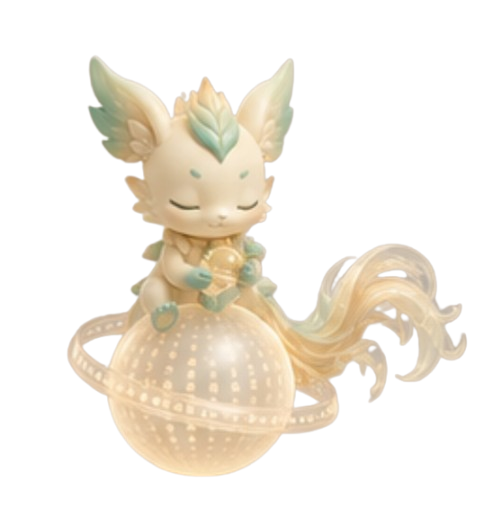
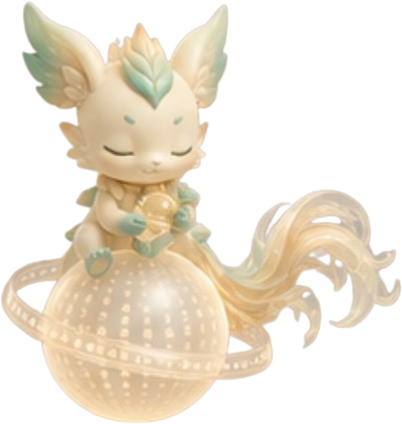
fix(mascot): trim the two poses that shipped with transparent margin
§6's companion looked too small and sat too low. The cause was not the layout:
`reading-on-the-orb.png` was never trimmed. It filled 82.6% x 90.8% of its own
499x500 frame, with 26/61/30/16 px of transparent margin, so in a 160px box the
creature drew 132 x 145 CSS px, sat 5.6 px LEFT of the box's centre because the
right margin was more than twice the left, and its 16px bottom margin floated
the orb 5.1 CSS px above the rail the column is bottom-aligned to.

That last one had already been filed as a separate §6 minor ("the orb floats
above the rail"). It is the same defect.

`hugging-an-orb.png` (§8) is the same, at 83.1% x 82.2% with 66/16/54/38.

THIS IS THE LIBRARY'S OWN CONVENTION, not a change of taste. The other three
poses a component references are `extract.js`'s output and a cutter emits a
tight box: greeting 100.0% x 99.3%, noting 100.0% x 99.0%, resting 100.0% x
99.2%. Only the two hand-cut, hand-pasted ones missed it. The guard's threshold
is 0.98 precisely so the extractor's 2-3px of bottom slack passes and its
byte-comparison test keeps working.

  reading-on-the-orb.png  499x500 -> 412x454  (offset 26,30)
  hugging-an-orb.png      484x516 -> 402x424  (offset 66,54)

Lossless for the creature, verified rather than asserted: decoding each
pre-trim file from HEAD and comparing the kept region pixel by pixel gives 0 of
748192 and 0 of 681792 channel values differing, and 0 opaque pixels dropped.
[…]

diff --git a/scripts/mascot/poses.test.ts b/scripts/mascot/poses.test.ts
@@ -1,6 +1,7 @@
 import { describe, expect, it } from "vitest";
 import { execFileSync } from "node:child_process";
 import { existsSync, readFileSync, readdirSync } from "node:fs";
+import { decode } from "./png.js";
 import { join } from "node:path";
 
 /**
@@ -24,6 +25,28 @@ import { join } from "node:path";
 
 const ROOT = join(__dirname, "..", "..");
 const POSES_DIR = join(ROOT, "public", "mascot", "poses");
+
+/** The bounding box of a PNG's non-transparent pixels. */
+function opaqueBox(path: string) {
+  const { w, h, ch, data } = decode(path);
+  let x0 = w;
+  let x1 = -1;
+  let y0 = h;
+  let y1 = -1;
+  for (let y = 0; y < h; y++) {
+    for (let x = 0; x < w; x++) {
+      // 8, not 0: a hand-cut edge feathers, and a pixel at alpha 3 is not
+      // margin a viewer can see.
+      if (ch === 4 && (data[(y * w + x) * ch + 3] ?? 0) <= 8) continue;
+      if (x < x0) x0 = x;
+      if (x > x1) x1 = x;
+      if (y < y0) y0 = y;
+      if (y > y1) y1 = y;
+    }
+  }
+  return { w, h, boxW: x1 - x0 + 1, boxH: y1 - y0 + 1 };
+}
+
 
 type Pose = {
   out: string;
@@ -149,6 +172,60 @@ describe("mascot pose manifest", () => {
         sources.some((src) => src.includes(pose.out)),
         `${pose.out} is recorded as placed but no component references it in code`,
       ).toBe(true);
+    }
+  });
+
+  it("draws every pose that ships with no transparent margin around it", () => {
+    // A placement sizes the FILE, not the creature — `sizes="160px"` paints the
+    // image box — so transparent margin is drawn size the artwork never gets,
+    // and asymmetric margin also pushes it off its own box's centre. §6 shipped
+    // `reading-on-the-orb.png` at 82.6% x 90.8% of its frame: in a 160px box
+    // the creature drew 132 x 145 CSS px, sat 5.6px left of centre, and its
+    // 16px bottom margin floated the orb 5.1 CSS px ABOVE the rail that
+    // `capability-chain.tsx` bottom-aligns it to.
+    //
+    // Scoped to what SHIPS, read from the components rather than from the
+    // manifest's `slot`. Both classes are scanned on purpose: three of the five
+    // poses a component references are `extract.js`'s output, and THEY are what
+    // proves the convention — a cutter emits a tight box, so all three measure
+    // 100% fill. The two that did not were hand-cut and pasted in.
+    const stripComments = (src: string) =>
+      src.replace(/\/\*[\s\S]*?\*\//g, "").replace(/^\s*\/\/.*$/gm, "");
+    const dir = join(process.cwd(), "components", "marketing");
+    const sources = readdirSync(dir)
+      .filter((f) => f.endsWith(".tsx") && !f.endsWith(".test.tsx"))
+      .map((f) => stripComments(readFileSync(join(dir, f), "utf8")));
+    expect(sources.length, "no marketing components found to scan").toBeGreaterThan(0);
+
+    const shipped = [...manifest.poses, ...manifest.supplied].filter((pose) =>
+      sources.some((src) => src.includes(pose.out)),
+    );
+    // L-004: without this, a scan that matched nothing would make the loop
+    // below vacuously green — and this guard was written over existing code,
+    // which is exactly when that happens unnoticed.
+    expect(shipped.map((pose) => pose.out).sort()).toEqual([
+      "greeting.png",
+      "hugging-an-orb.png",
+      "noting.png",
+      "reading-on-the-orb.png",
+      "resting.png",
+    ]);
+
+    for (const pose of shipped) {
+      const { w, h, boxW, boxH } = opaqueBox(join(POSES_DIR, pose.out));
+      expect(boxW / w, `${pose.out} horizontal fill`).toBeGreaterThan(0.98);
+      expect(boxH / h, `${pose.out} vertical fill`).toBeGreaterThan(0.98);
+      // A supplied entry records both dimensions, and they must describe the
+      // file on disk — otherwise a trim leaves two records disagreeing
+      // (CLAUDE.md 6, one fact one home). An extracted entry records only the
+      // cut `width`; its height comes from the sheet, and `extract.js --check`
+      // already byte-compares those files.
+      if ("height" in pose) {
+        expect({ width: w, height: h }, `${pose.out} manifest dimensions`).toEqual({
+          width: pose.width,
+          height: pose.height,
+        });
+      }
     }
   });
 

diff --git a/scripts/mascot/trim.js b/scripts/mascot/trim.js
@@ -1,0 +1,81 @@
+// Trims a pose to its opaque bounding box.
+//
+// WHY THIS EXISTS. A placement sizes the FILE, not the creature: §6 renders
+// `reading-on-the-orb.png` with `sizes="160px"`, so transparent margin inside
+// the file is drawn size the artwork never gets. That pose shipped filling
+// 82.6% x 90.8% of its own frame — the creature drew 132 x 145 CSS px in a
+// 160px box, sat 5.6 px left of the box's centre because the right margin was
+// 61px against the left's 26, and its 16px bottom margin floated the orb 5.1
+// CSS px above the rail `capability-chain.tsx` bottom-aligns it to.
+//
+// `extract.js` already emits tight cuts, which is why all three of its outputs
+// that ship measure 100% fill. This is the same guarantee for the poses the
+// owner hand-cut and pasted in.
+//
+// LOSSLESS FOR THE CREATURE: only margin at or below ALPHA_FLOOR is removed, so
+// every pixel the artwork draws survives byte-identical. `--check` re-derives
+// the box and reports without writing, the contract `extract.js --check` has.
+//
+// Usage:
+//   node scripts/mascot/trim.js [--check] <path> [<path> ...]
+const { decode, encode } = require("./png.js");
+const fs = require("fs");
+const path = require("path");
+
+const ROOT = path.join(__dirname, "..", "..");
+// 8, not 0: a hand-cut edge feathers, and a pixel at alpha 3 is not margin a
+// viewer can see. Kept identical to the guard in `poses.test.ts`.
+const ALPHA_FLOOR = 8;
+
+function opaqueBox({ w, h, ch, data }) {
+  let x0 = w;
+  let x1 = -1;
+  let y0 = h;
+  let y1 = -1;
+  for (let y = 0; y < h; y++) {
+    for (let x = 0; x < w; x++) {
+      if (ch === 4 && data[(y * w + x) * ch + 3] <= ALPHA_FLOOR) continue;
+      if (x < x0) x0 = x;
+      if (x > x1) x1 = x;
+      if (y < y0) y0 = y;
+      if (y > y1) y1 = y;
+    }
+  }
+  if (x1 < 0) throw new Error("image is fully transparent");
+  return { x0, y0, w: x1 - x0 + 1, h: y1 - y0 + 1 };
+}
+
+function trim(rel, { write }) {
+  const abs = path.isAbsolute(rel) ? rel : path.join(ROOT, rel);
+  const img = decode(abs);
+  const box = opaqueBox(img);
+  const already = box.x0 === 0 && box.y0 === 0 && box.w === img.w && box.h === img.h;
+
+  console.log(
+    `${rel}: ${img.w}x${img.h} -> ${box.w}x${box.h} (offset ${box.x0},${box.y0})` +
+      (already ? "  already trimmed" : write ? "  WRITTEN" : "  would trim"),
+  );
+  if (already || !write) return box;
+
+  // `encode` writes colortype 6 unconditionally and calls `data.copy`, so it
+  // wants an RGBA **Buffer** — matching `decode`, which returns one. A pose
+  // without an alpha channel has no margin to trim and never reaches here.
+  if (img.ch !== 4) throw new Error(`${rel}: expected RGBA, got ${img.ch} channels`);
+
+  const rowBytes = box.w * 4;
+  const out = Buffer.alloc(box.h * rowBytes);
+  for (let y = 0; y < box.h; y++) {
+    const src = ((y + box.y0) * img.w + box.x0) * 4;
+    img.data.copy(out, y * rowBytes, src, src + rowBytes);
+  }
+  fs.writeFileSync(abs, encode(box.w, box.h, out));
+  return box;
+}
+
+const write = !process.argv.includes("--check");
+const files = process.argv.slice(2).filter((arg) => !arg.startsWith("--"));
+if (files.length === 0) {
+  console.error("usage: node scripts/mascot/trim.js [--check] <path> [<path> ...]");
+  process.exit(1);
+}
+for (const file of files) trim(file, { write });

diff --git a/tests/e2e/landing-page.spec.ts b/tests/e2e/landing-page.spec.ts
@@ -166,4 +166,42 @@ test.describe("landing page", () => {
     expect(headerBottom).toBeGreaterThan(0);
     expect(headingTop).toBeGreaterThan(headerBottom);
   });
+  test("gives §3's five step cards one width", async ({ page }) => {
+    // Geometry, so it belongs here and not in the jsdom suite, which loads no
+    // CSS. The defect: every `li` carried the flex basis and shared it with a
+    // StepArrow — except the fifth, which renders no arrow and kept the
+    // arrow's 16px for its card. Measured 146.51 x4 against 162.51.
+    await page.goto("/en");
+
+    const cards = page.locator("#journey [data-step]");
+    await expect(cards).toHaveCount(5);
+
+    const widths = await cards.evaluateAll((els) =>
+      els.map((el) => Math.round(el.getBoundingClientRect().width)),
+    );
+    // "All equal", not a literal: the width itself legitimately moves with the
+    // page width, the thing that must not vary is card-to-card.
+    expect(new Set(widths).size, `widths were ${widths.join(", ")}`).toBe(1);
+  });
+
+  test("keeps §6's companion standing on the rail", async ({ page }) => {
+    // `xl:items-end` is load-bearing and documented: the node grid's bottom
+    // edge IS the rail, so bottom-aligning the companion is what puts its orb
+    // on the line, exactly as the reference draws it. A refactor to
+    // `items-center` looks harmless and lifts the orb off the rail, so the
+    // promise is pinned here where a browser can see it.
+    await page.goto("/en");
+
+    const mascot = await page.locator("#chain [data-chain-mascot]").boundingBox();
+    const node = await page.locator("#chain [data-chain-node]").last().boundingBox();
+    if (!mascot || !node) throw new Error("§6's companion or its node grid did not render");
+
+    // 1px, not 0: sub-pixel layout rounding is legitimate, 13px of centring is
+    // not. NOTE this measures the IMAGE BOX. Whether the creature reaches the
+    // box's bottom edge is a property of the FILE, guarded in
+    // `scripts/mascot/poses.test.ts` — an untrimmed pose left a 16px
+    // transparent margin and floated the orb 5.1 CSS px above the rail while
+    // this assertion stayed green.
+    expect(Math.abs(mascot.y + mascot.height - (node.y + node.height))).toBeLessThan(1);
+  });
 });

diff --git a/components/marketing/capability-chain.tsx b/components/marketing/capability-chain.tsx
@@ -160,7 +160,19 @@ export const MASCOT_POSE = "/mascot/poses/reading-on-the-orb.png";
  * the grid, centred, still in flow.
  */
 const MASCOT_WIDTH = 160;
-const MASCOT_HEIGHT = 160;
+/**
+ * The pose's own aspect ratio at `MASCOT_WIDTH`, not a second free choice:
+ * `reading-on-the-orb.png` is 412x454, so 160 * 454 / 412 = 176.
+ *
+ * It was 160x160 while the file was 499x500 — near-square, so the box looked
+ * right and the defect hid inside it. That file carried 26/61/30/16 px of
+ * TRANSPARENT margin, so the creature drew only 132 x 145 CSS px of the 160 box
+ * and sat 5.6px left of its centre, and the 16px bottom margin floated the orb
+ * 5.1 CSS px above the rail this column is bottom-aligned to. The file is
+ * trimmed now (`scripts/mascot/trim.js`, guarded by `poses.test.ts`), so the
+ * box IS the creature — which is why this number has to follow the file.
+ */
+const MASCOT_HEIGHT = 176;
 /**
  * The companion renders at a fixed `MASCOT_WIDTH` CSS px at every viewport — it
  * is a fixed-size decorative element, not a fluid one — so `sizes` is that

diff --git a/components/marketing/cta.tsx b/components/marketing/cta.tsx
@@ -163,12 +163,18 @@ export async function Cta() {
               here, within 8px of the content column's own right edge. A
               proportion rather than a copied pixel, like §2's and §7's
               photographs. */}
+          {/* `width`/`height` are the file's real dimensions — 402x424 since
+              the 2026-09-02 trim (`scripts/mascot/trim.js`, guarded by
+              `scripts/mascot/poses.test.ts`). They were 484x516, and that file
+              carried 66/16/54/38 px of TRANSPARENT margin, so `bottom-0` pinned
+              the margin to the band's floor and the creature hovered above it
+              at 83% of the width it was given. */}
           <Image
             data-mascot
             src={CTA_MASCOT}
             alt={t("cta.mascotAlt")}
-            width={484}
-            height={516}
+            width={402}
+            height={424}
             sizes={MASCOT_SIZES}
             className="pointer-events-none absolute bottom-0 right-[7%] hidden h-auto w-[20%] lg:block"
           />

diff --git a/scripts/mascot/png.d.ts b/scripts/mascot/png.d.ts
@@ -1,0 +1,18 @@
+// Types for `png.js`, the dependency-free PNG codec that `extract.js`,
+// `trim.js` and the pose tests share. The implementation stays plain CommonJS
+// JavaScript — it is a build-time script, not application code — so its
+// contract lives here rather than as annotations inside it.
+
+/** Decoded RGB(A) pixels. `ch` is 4 for colortype 6, 3 for colortype 2. */
+export interface DecodedPng {
+  w: number;
+  h: number;
+  ch: number;
+  data: Buffer;
+}
+
+/** Decodes a non-interlaced, 8-bit PNG of colortype 2 or 6. */
+export function decode(path: string): DecodedPng;
+
+/** Encodes RGBA pixels as a colortype-6 PNG. `data` is `w * h * 4` bytes. */
+export function encode(w: number, h: number, data: Buffer): Buffer;
